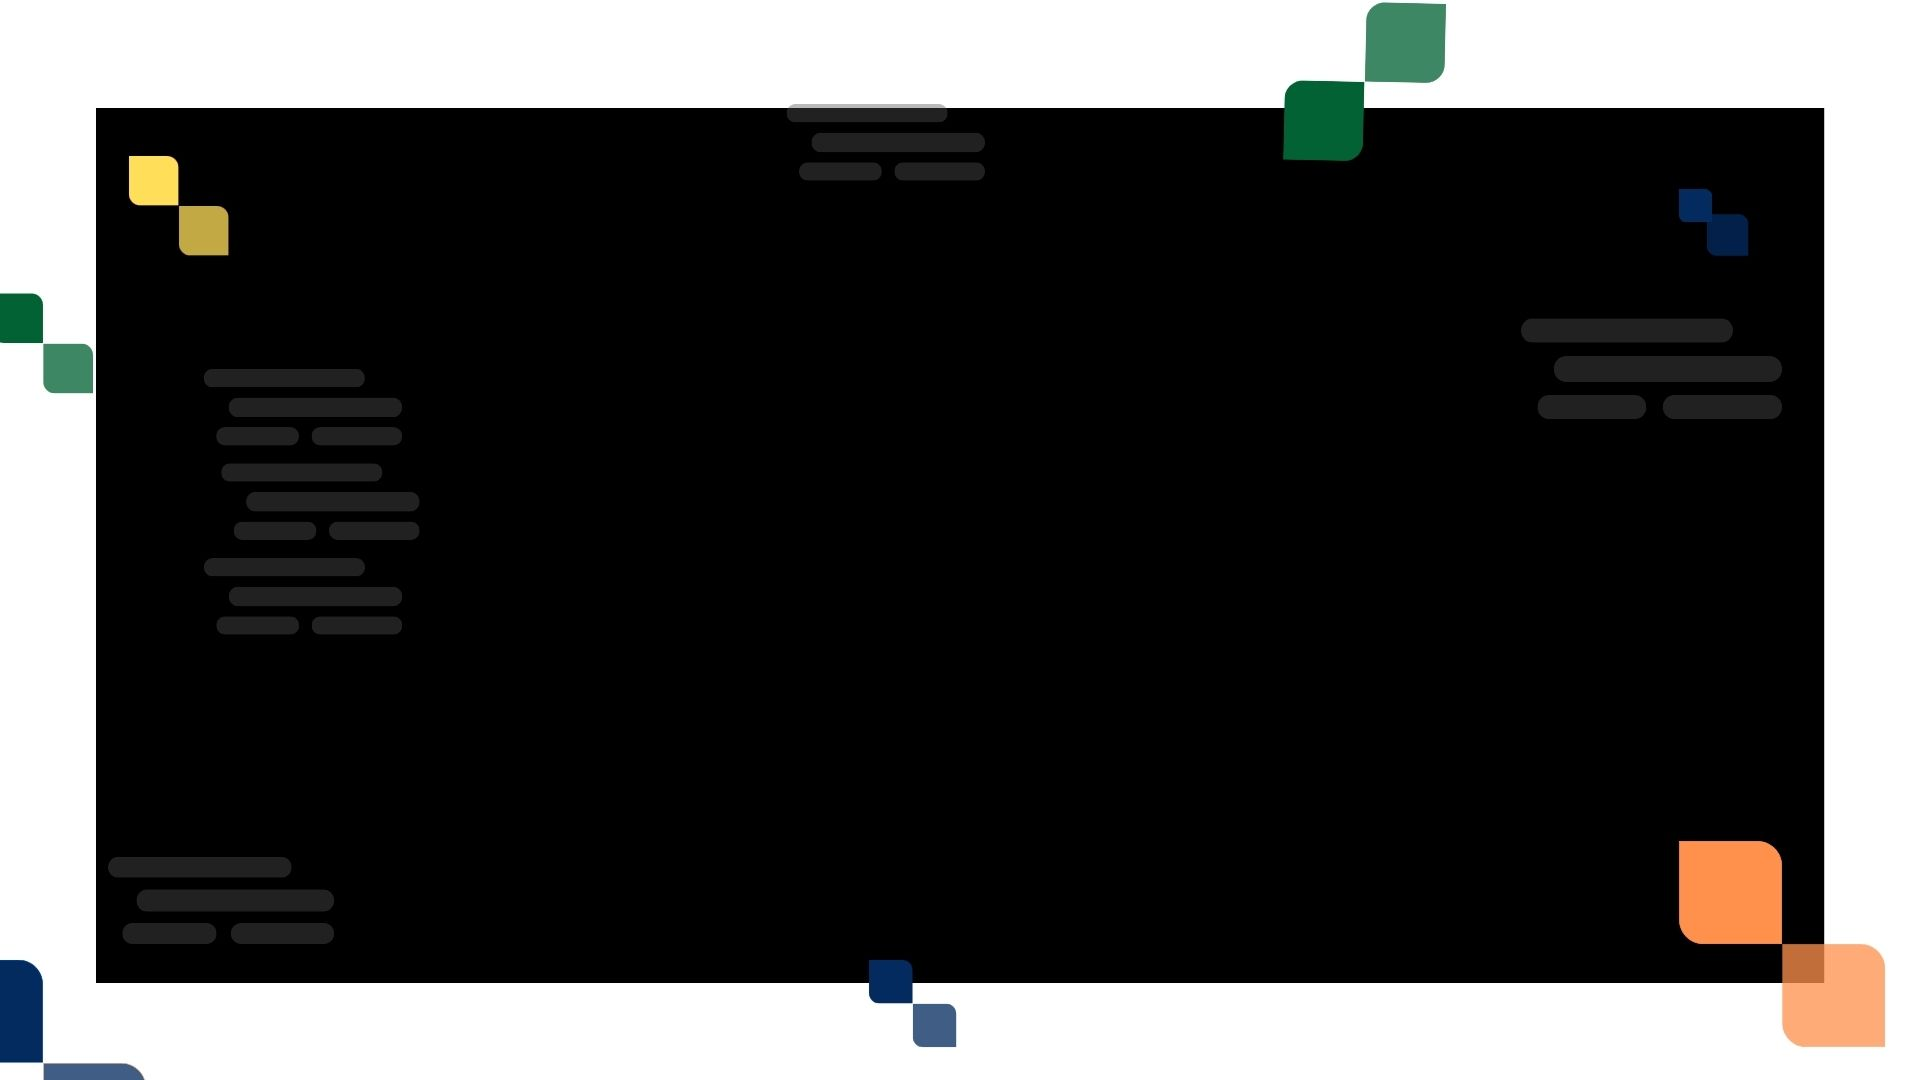
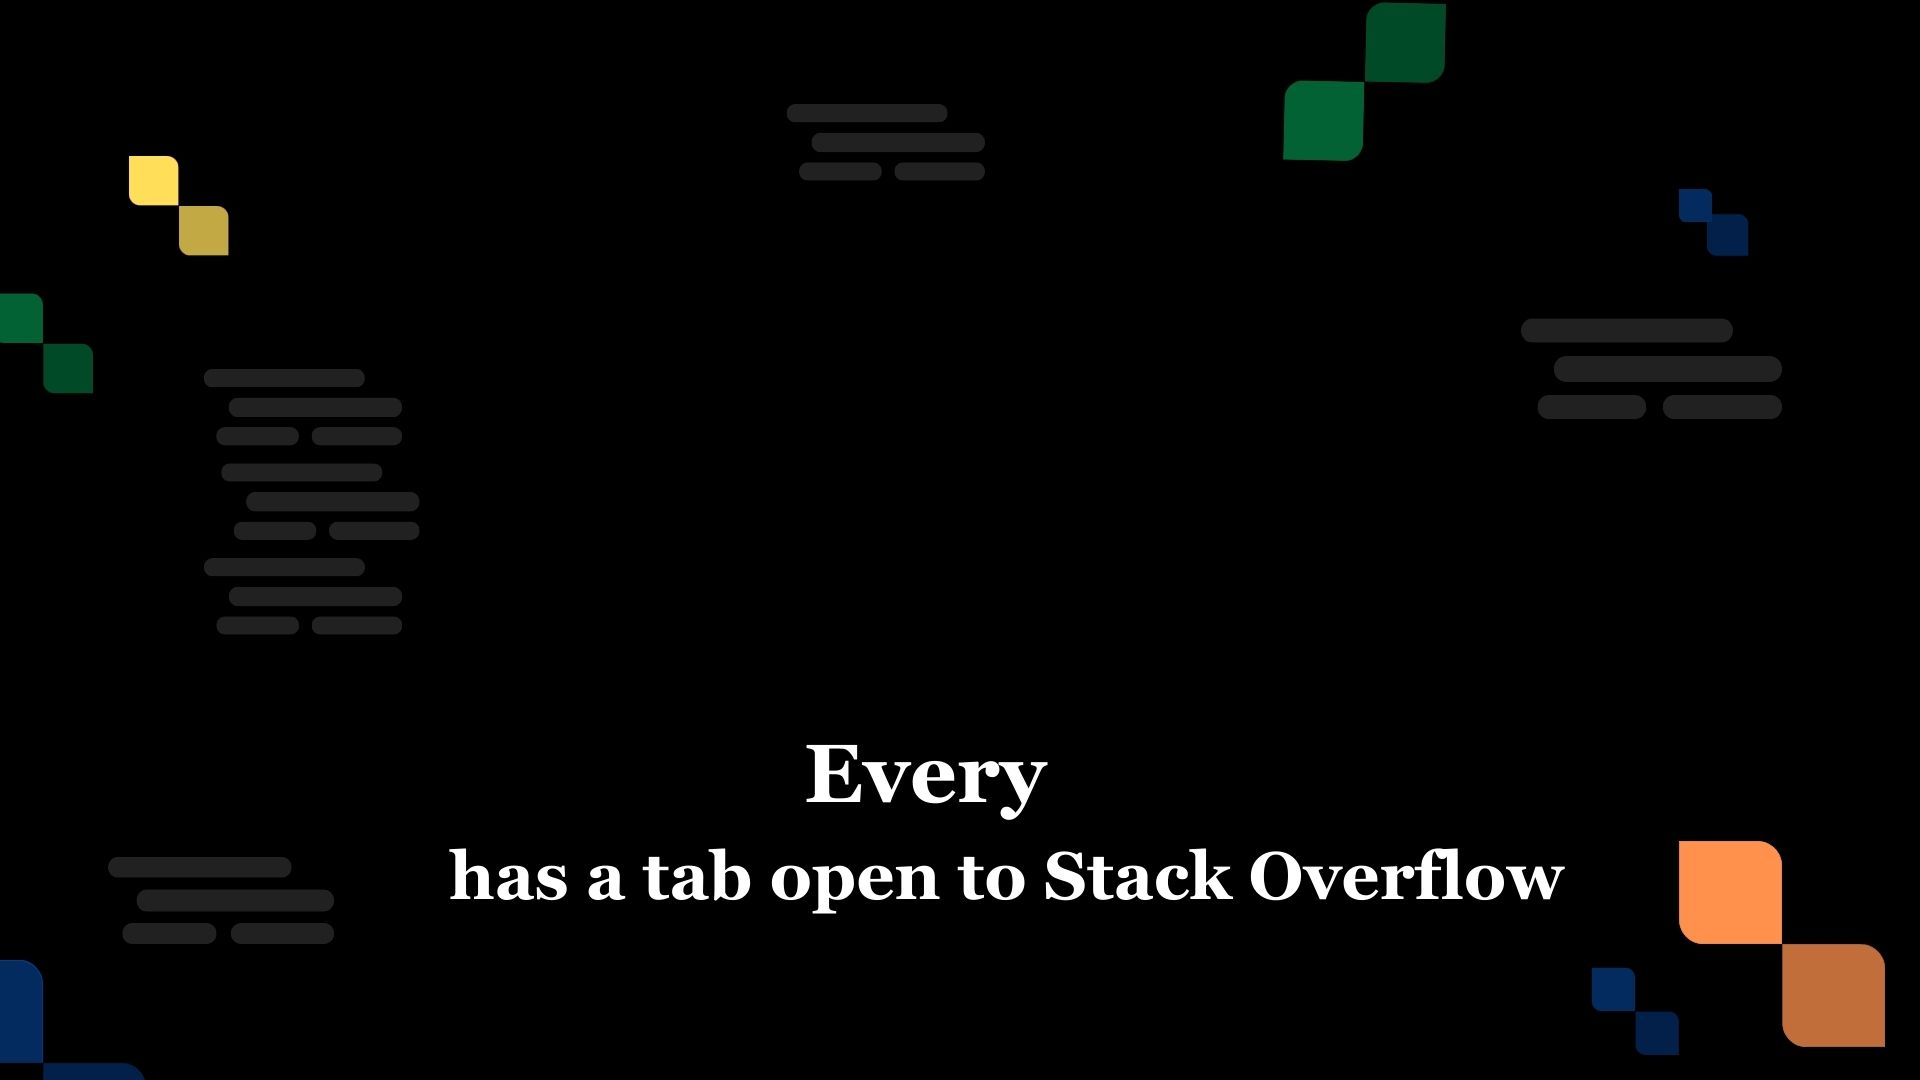
styling

Changed region(s): [[0.0, 0.0, 1.0, 1.0], [0.2188, 0.7944, 0.8125, 0.8556], [0.4062, 0.6722, 0.5625, 0.7639]]

diff --git a/src/components/topBar.jsx b/src/components/topBar.jsx
@@ -1,56 +1,68 @@
 import { useEffect } from "react";
 import { Link, useNavigate } from "react-router-dom";
+import TextTransition, { presets } from 'react-text-transition';
 
 export default function TopBar() {
-  const navigate=useNavigate()
-  const isLogedin=localStorage.getItem("sessiontoken")
+  const navigate = useNavigate();
+  const isLogedin = localStorage.getItem("sessiontoken");
 
-const handleLogout=()=>{localStorage.removeItem("sessiontoken")
-navigate("/login")
-}
+  const handleLogout = () => {
+    localStorage.removeItem("sessiontoken");
+    navigate("/login");
+  };
+
   return (
     <div className="flex-none gap-2">
-      <div className="navbar bg-base-100 p-0 m-0">
+      <div className="navbar bg-base-100 h-8">
         <div className="flex-1 px-1">
           <Link className="text" to="/">
-            
             <img
               alt="Tailwind CSS Navbar component"
-              className="w-32 h-20" 
+              className="w-32 h-8"
               src="https://stackoverflow.design/assets/img/logos/so/logo-stackoverflow.svg"
             />
           </Link>
 
-          <a className="btn btn-ghost text-xs">About</a>
-          <a className="btn btn-ghost text-xs">Products</a>
-          <a className="btn btn-ghost text-xs">for Teams</a>
+          <a className="btn btn-ghost text-xs ml-1">About</a>
+          <a className="btn btn-ghost text-xs ml-1">Products</a>
+          <a className="btn btn-ghost text-xs ml-1">for Teams</a>
 
-          <div className="form-control px-1 ">
+          <div className="form-control px-1">
             <input
               type="text"
               placeholder="Search..."
-              className="input w-full h-4"
+              className="input w-full h-5" // Adjusted height
             />
           </div>
-    {
-      isLogedin?<button className="btn text-xs btn-outline btn-error" onClick={handleLogout}>logout</button>:(
-        <>
-        <div className="ml-3">
-                <Link className="btn text-xs btn-outline btn-primary" to="/login">
+
+          {isLogedin ? (
+            <button
+              className="btn text-xs btn-outline btn-error ml-2" // Adjusted margin
+              onClick={handleLogout}
+            >
+              logout
+            </button>
+          ) : (
+            <>
+              <div className="ml-2"> {/* Adjusted margin */}
+                <Link
+                  className="btn text-xs btn-outline btn-primary"
+                  to="/login"
+                >
                   Log in
                 </Link>
               </div>
-    
+
               <div className="px-1">
                 <Link className="btn text-xs h-8 btn-primary" to="/signup">
                   Sign up
                 </Link>
               </div>
-        </>
-              
-          )}    
+            </>
+          )}
         </div>
       </div>
     </div>
+    
   );
 }

diff --git a/src/components/displayAnswer.jsx b/src/components/displayAnswer.jsx
@@ -32,30 +32,57 @@ export default function Answer({ ans, questionId }) {
 
   return (
     <div>
-      <h1 className="card-title">Answer</h1>
+      <h1 className="card-title font-bold">Answer</h1>
 
       {ansStore &&
         ansStore.map((answer) => (
           <div key={answer._id}>
-            <p>{answer.answer}</p>
-            <p>created by: {answer.createdBy}</p>
-            <p>created at: {new Date(answer.createdAt).toLocaleDateString()}</p>
-            <div className="flex justify-end">
-              {[...Array(1)].map((star,index) => {
+            <p >{answer.answer}</p>
+            <p className="text-end"><h1 className="font-semibold">Created by:</h1> {answer.createdBy}</p>
+            <p className="text-end"><h1 className="font-semibold">Created on:</h1> {new Date(answer.createdAt).toLocaleDateString()}</p>
+            <div className="flex justify-start">
+              {[...Array(1)].map((star, index) => {
                 const currentRating = index + 1;
                 return (
-
                   <label>
                     <input
-                    type="hidden"
+                      type="hidden"
                       name="rating"
                       value={currentRating}
                       onClick={() => setRating(currentRating)}
                     />
-                    <Rate defaultValue={0}/>
+                    <div className="rating rating-sm">
+                <input
+                  type="radio"
+                  name="rating-6"
+                  className="mask mask-star-2 bg-orange-400"
+                />
+                <input
+                  type="radio"
+                  name="rating-6"
+                  className="mask mask-star-2 bg-orange-400"
+                  checked
+                />
+                <input
+                  type="radio"
+                  name="rating-6"
+                  className="mask mask-star-2 bg-orange-400"
+                />
+                <input
+                  type="radio"
+                  name="rating-6"
+                  className="mask mask-star-2 bg-orange-400"
+                />
+                <input
+                  type="radio"
+                  name="rating-6"
+                  className="mask mask-star-2 bg-orange-400"
+                />
+              </div>
                   </label>
                 );
               })}
+              
             </div>
             <button
               className="btn btn-xs btn-error btn-outline m-2"

diff --git a/src/components/landingPage.jsx b/src/components/landingPage.jsx
@@ -1,12 +1,14 @@
 import { Link } from "react-router-dom";
 import TopBar from "./topBar";
+import TextAnime from "./textAnime";
 
 export default function LandingPage() {
   return (
     <div >
       <TopBar />
-      
-      <div className="flex bg-black" id="bg_base">
+
+      <div className="flex" id="bg_base">
+        
         <div className="flex-row">
           <div className="card ml-72 m-48 w-96 bg-warning-subtle text-info-content">
             <div className="card-body">
@@ -32,7 +34,9 @@ export default function LandingPage() {
                 <button className="btn bg-orange-600 text-secondary-content">
                   join the community
                 </button>
-                <Link className="link mt-2" to="/ques/all">search content</Link>
+                <Link className="link mt-2" to="/ques/all">
+                  search content
+                </Link>
               </div>
             </div>
           </div>
@@ -64,10 +68,26 @@ export default function LandingPage() {
                   Discover Teams
                 </button>
               </div>
+              
             </div>
+            
           </div>
+          <div className="flex-col mt-10 mr-48">
+         <div className="">
+          <h1 className="text-5xl text-white  align-bottom">
+            
+
+
+            {<TextAnime />} </h1>
+          </div>
+         </div>
         </div>
+      
       </div>
+      
+     
+      
     </div>
+    
   );
 }

diff --git a/src/components/tags/Tags.jsx b/src/components/tags/Tags.jsx
@@ -12,16 +12,16 @@ const Tags = () => {
       <div className="flex flex-row w-full  border-solid">
         <LeftSidebar />
         <div className="home-container-2 mr-10 ">
-          <h1 className="tags-h1">Tags</h1>
-          <p className="tags-p">
+          <h1 className="card-title text-bold text-3xl">Tags</h1>
+          <h1 className="text-2xl">
             A tag is a keyword or label that categorizes your question with
             other, similar questions.
-          </p>
-          <p className="tags-p">
+          </h1>
+          <h1 className="text-2xl">
             Using the right tags makes it easier for others to find and answer
             your question.
-          </p>
-          <div className="tags-list-container">
+          </h1>
+          <div className="tags-list-container ">
             {tagsList.map((tag) => (
               <TagsList tag={tag} key={tag.id} />
             ))}

diff --git a/src/components/textAnime.jsx b/src/components/textAnime.jsx
@@ -1,0 +1,22 @@
+import React from 'react';
+import TextTransition, { presets } from 'react-text-transition';
+
+const TEXTS = ['developer', 'mobile developer', 'game developer', 'data scientist','system admin'];
+
+export default function TextAnime() {
+  const [index, setIndex] = React.useState(0);
+
+  React.useEffect(() => {
+    const intervalId = setInterval(
+      () => setIndex((index) => index + 1),
+      2000, // every 3 seconds
+    );
+    return () => clearTimeout(intervalId);
+  }, []);
+
+  return (
+    <h1 className="font-extrabold mt-10 text-orange-600 text-5xl text-center">
+      <TextTransition springConfig={presets.gentle}>{TEXTS[index % TEXTS.length]}</TextTransition>
+    </h1>
+  );
+};

diff --git a/src/components/ques_answ.jsx b/src/components/ques_answ.jsx
@@ -44,9 +44,9 @@ export default function QuesAnsw() {
               <h2 className="card-title">{selectedQuestion.title}</h2>
               <p>{selectedQuestion.questionbody}</p>
 
-              <p>created by: {selectedQuestion.createdBy}</p>
+              <p><h1 className="font-semibold">Created by:</h1>{selectedQuestion.createdBy}</p>
               <p>
-                created at:{" "}
+              <h1 className="font-semibold">Created on:</h1>
                 {new Date(selectedQuestion.createdAt).toLocaleDateString()}
               </p>
 

diff --git a/src/components/leftSideBar.jsx b/src/components/leftSideBar.jsx
@@ -83,7 +83,7 @@ export default function LeftSideBar() {
              />
            </figure>
              <div className="card-actions justify-end">
-               <button className="btn bg-orange-600 ">Create a Free team</button>
+               <button className="btn bg-orange-600 text-white">Create a Free team</button>
                <button className="btn badge-outline">why teams?</button>
              </div>
            </div>

diff --git a/src/App.css b/src/App.css
@@ -1,7 +1,8 @@
-#bg_base{
+#bg_base {
     background-image: url(http://localhost:5173/bg.jpg) !important;
     background-repeat: no-repeat;
-    background-attachment: fixed; 
-    background-size: 100% 100%;
-  
+    background-attachment: fixed;
+    background-size: cover;
+    background-position: center;
+    min-height: 100vh; /* Ensure the background covers the entire viewport */
 }

diff --git a/src/components/tags/TagsList.jsx b/src/components/tags/TagsList.jsx
@@ -2,7 +2,7 @@ import "./Tags.css";
 
 const TagsList = ({ tag }) => {
   return (
-    <div className="card mr-10 w-96 bg-base-100 shadow-xl">
+    <div className="card mr-10 w-44  mr-10 bg-base-100 shadow-xl">
   <div className="card-body p-4">
     <h2 className="card-title">{tag.tagName}</h2>
     <p>{tag.tagDesc}</p>

diff --git a/src/components/question.jsx b/src/components/question.jsx
@@ -25,7 +25,7 @@ export default function Questions() {
         </div>
        <div>
        {isLogedin ? (
-            <Link className="btn btn-success" to="/ask/ques">
+            <Link className="btn btn-success text-white" to="/ask/ques">
               Ask Question
             </Link>
           ) : (

diff --git a/src/components/tags/Tags.css b/src/components/tags/Tags.css
@@ -9,6 +9,7 @@
 }
 
 .tags-list-container {
+  
   padding: 30px 0px;
   display: grid;
   grid-template-columns: repeat(auto-fill, minmax(200px, 1fr));
